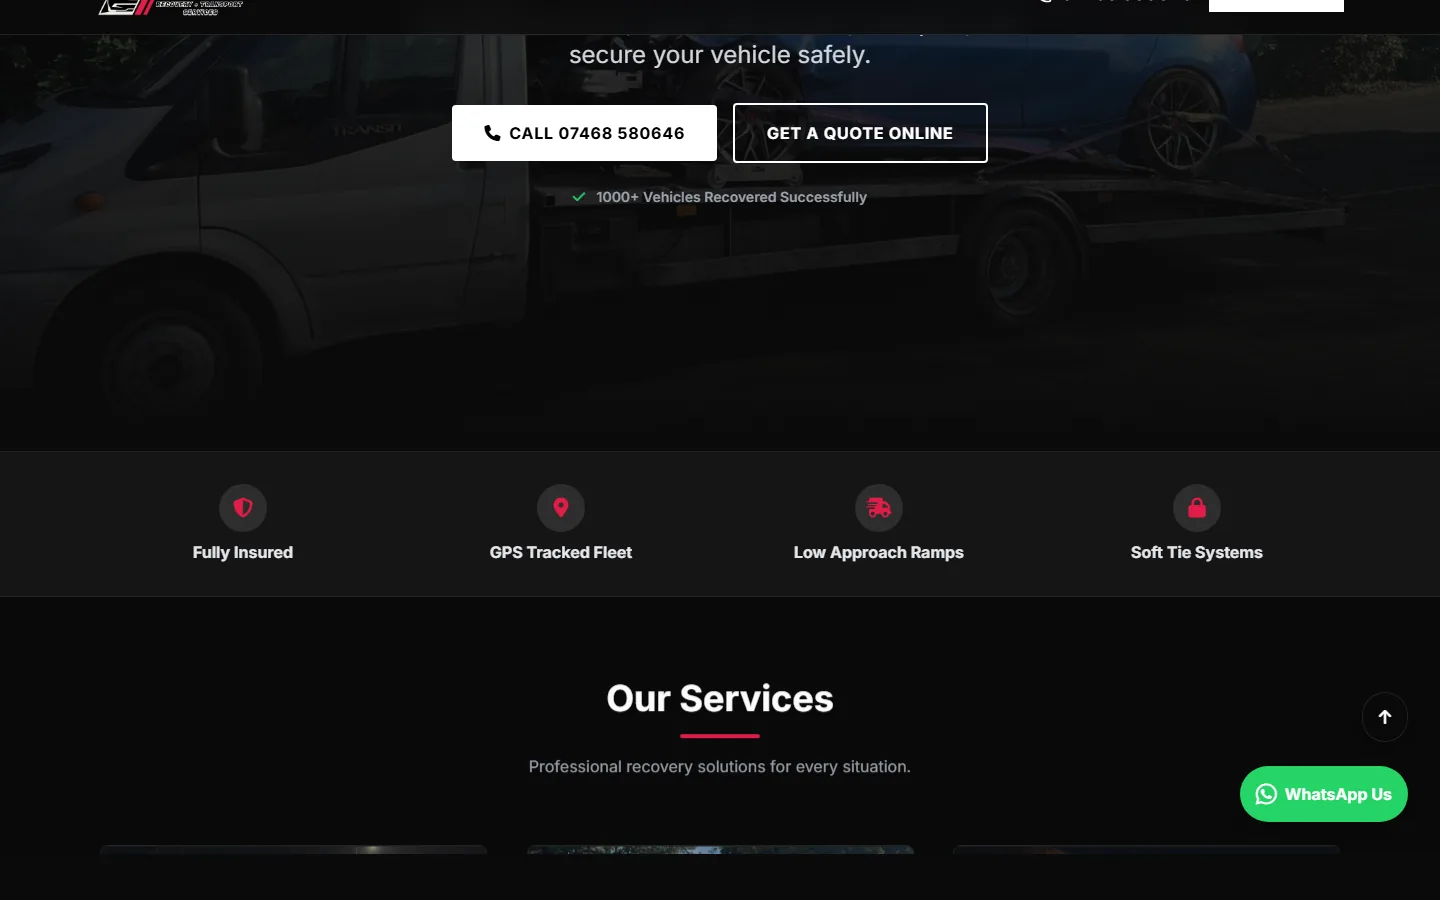
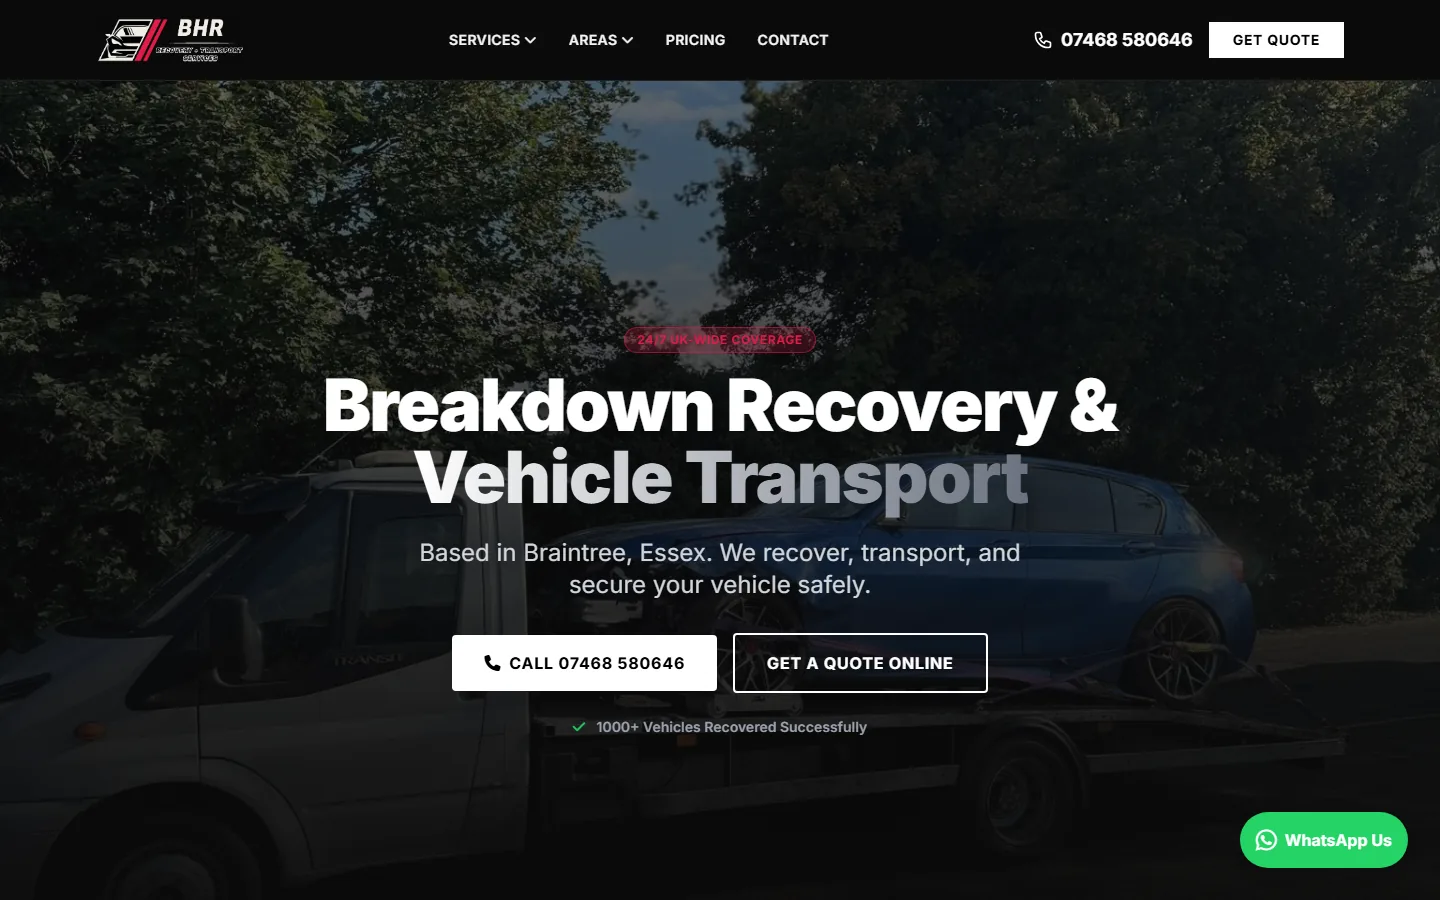
fix(vscode + screenshots): build crash, apostrophe escape, hero capture
VS Code v2 Build crash:
The build animation's setInterval pushed lines[i] into terminalOutput via a
closure, then incremented i. Under StrictMode replays / concurrent
rendering the setState updater could fire *after* the increment, so
lines[i] read the already-bumped index and pushed undefined - the next
render's map() over terminalOutput then crashed with 'Cannot read
properties of undefined (reading type)'. Capture the line value before
the increment and pass it by value instead.

VS Code v1 Alpine errors on 'Ram's Taxis':
htmlspecialchars() converts ' to &#039; in attribute output, but the
browser decodes the entity back to ' before Alpine parses the
expression - so the runtime saw "selectFile('Ram's Taxis')" with an
unescaped apostrophe breaking the JS string literal. Switched to
htmlspecialchars(json_encode(value), ENT_QUOTES) which emits a
double-quoted JS string that survives both HTML attribute decoding and
Alpine expression parsing. Same fix on the x-show comparison. Also
plugged a small XSS gap on the unescaped title/description/alt
attributes inside the project hero.

Screenshot script:
bjjhavering and bhrrecovery were landing mid-page. Both run client-side
scroll-restoration / hash-anchor jumps during hydration, scrolling past
the hero before our captures fired. Disabled scroll-behavior:smooth via
injected CSS and re-pinned scroll-to-top *after* the paint-wait so the
final position is always the hero. Re-captured the two affected sites.

diff --git a/v2/src/apps/vscode/VSCode.tsx b/v2/src/apps/vscode/VSCode.tsx
@@ -85,8 +85,14 @@ export default function VSCode() {
         setIsBuilding(false)
         return
       }
-      setTerminalOutput((prev) => [...prev, lines[i]])
+      // Capture the line *before* incrementing — the setState updater may
+      // run later (StrictMode replays / concurrent rendering), at which
+      // point a closure-captured lines[i] reads the already-incremented i
+      // and pushes undefined, blowing up the map below with
+      //   "Cannot read properties of undefined (reading 'type')".
+      const line = lines[i]
       i++
+      setTerminalOutput((prev) => [...prev, line])
     }, 350)
   }
 

diff --git a/partials/apps/vscode.php b/partials/apps/vscode.php
@@ -32,8 +32,9 @@
                     <?php if (!empty($featured)): ?>
                         <div class="px-2 pt-1 pb-0.5 text-[9px] uppercase tracking-wider opacity-50">★ Featured</div>
                         <?php foreach ($featured as $p): ?>
-                            <div @click="selectFile('<?php echo htmlspecialchars($p['title'], ENT_QUOTES); ?>')"
-                                 :class="activeFile === '<?php echo htmlspecialchars($p['title'], ENT_QUOTES); ?>' ? 'bg-[#37373d]' : ''"
+                            <?php $title_js = htmlspecialchars(json_encode($p['title']), ENT_QUOTES); ?>
+                            <div @click="selectFile(<?php echo $title_js; ?>)"
+                                 :class="activeFile === <?php echo $title_js; ?> ? 'bg-[#37373d]' : ''"
                                  class="flex items-center px-2 py-1 text-xs hover:bg-[#37373d] cursor-pointer">
                                 <span class="mr-2 text-yellow-500">📂</span><?php echo htmlspecialchars($p['title']); ?>
                             </div>
@@ -42,8 +43,9 @@
                     <?php if (!empty($other)): ?>
                         <div class="px-2 pt-2 pb-0.5 text-[9px] uppercase tracking-wider opacity-50">Other work</div>
                         <?php foreach ($other as $p): ?>
-                            <div @click="selectFile('<?php echo htmlspecialchars($p['title'], ENT_QUOTES); ?>')"
-                                 :class="activeFile === '<?php echo htmlspecialchars($p['title'], ENT_QUOTES); ?>' ? 'bg-[#37373d]' : ''"
+                            <?php $title_js = htmlspecialchars(json_encode($p['title']), ENT_QUOTES); ?>
+                            <div @click="selectFile(<?php echo $title_js; ?>)"
+                                 :class="activeFile === <?php echo $title_js; ?> ? 'bg-[#37373d]' : ''"
                                  class="flex items-center px-2 py-1 text-xs hover:bg-[#37373d] cursor-pointer">
                                 <span class="mr-2 text-yellow-500">📂</span><?php echo htmlspecialchars($p['title']); ?>
                             </div>
@@ -91,11 +93,11 @@
                         <!-- Project View -->
                         <div class="h-full flex flex-col">
                             <?php foreach ($projects as $p): ?>
-                                <div x-show="activeFile === '<?php echo $p['title']; ?>'" class="flex flex-col h-full animate-window-open">
+                                <div x-show="activeFile === <?php echo htmlspecialchars(json_encode($p['title']), ENT_QUOTES); ?>" class="flex flex-col h-full animate-window-open">
                                     <div class="flex items-center justify-between mb-6">
                                         <div>
-                                            <h2 class="text-2xl font-bold text-white mb-2"><?php echo $p['title']; ?></h2>
-                                            <p class="text-gray-400 text-sm max-w-2xl"><?php echo $p['description']; ?></p>
+                                            <h2 class="text-2xl font-bold text-white mb-2"><?php echo htmlspecialchars($p['title']); ?></h2>
+                                            <p class="text-gray-400 text-sm max-w-2xl"><?php echo htmlspecialchars($p['description']); ?></p>
                                         </div>
                                         <div class="flex space-x-3">
                                             <button @click="runBuild()" 
@@ -114,7 +116,7 @@
                                     <div class="flex-grow relative group overflow-hidden rounded-xl border border-white/10 bg-black/40 flex items-center justify-center min-h-0">
                                         <img src="<?php echo $p['thumbnail']; ?>"
                                              class="max-w-full max-h-full w-auto h-auto object-contain transition-transform duration-700 group-hover:scale-105"
-                                             alt="<?php echo $p['title']; ?>">
+                                             alt="<?php echo htmlspecialchars($p['title'], ENT_QUOTES); ?>">
                                         <div class="absolute inset-0 bg-gradient-to-t from-black/80 via-transparent to-transparent flex flex-col justify-end p-8 opacity-0 group-hover:opacity-100 transition-opacity">
                                             <div class="flex flex-wrap gap-2">
                                                 <?php foreach ($p['tags'] as $t): ?>
